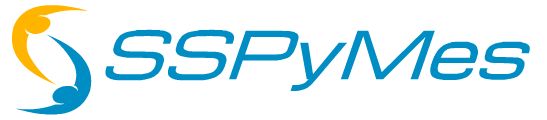
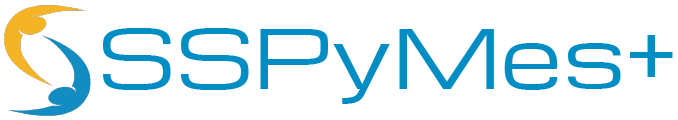
Update

Changed region(s): [[0.0, 0.025, 0.9945, 0.975]]

diff --git a/css/forgot.css b/css/forgot.css
@@ -50,14 +50,17 @@ body {
 }
 
 .row .form-group input {
-	display: block;
-	padding: 0.5em 0;
-	width: 100%;
-	margin-top: 1em;
-	margin-bottom: 0.5em;
-	background-color: white;
-	border: none;
-	border-radius: 5px;
+	font-size: 22px;
+    display: block;
+    width: 100%;
+    height: 100%;
+    padding: 5px 10px;
+    background: rgb(255, 255, 255);
+    background-image: none;
+    border: 1px solid #a0b3b0;
+    color: rgb(0, 0, 0);
+    border-radius: 0;
+    transition: border-color .25s ease, box-shadow .25s ease;
 }
 
 .row .form-group button {
@@ -74,7 +77,7 @@ body {
 .row .form-group input:focus, .row .form-group button:focus {
 	background-color: #fff;
 	border: none;
-	padding: 1em 0.5em; 
+	/* padding: 1em 0.5em;  */
 	animation: pulse 1s infinite ease;
 }
 
@@ -191,18 +194,18 @@ body {
 
 @media screen and (min-width: 1366px) {
 	.row .form-group {
-		margin-left: 400px;
+		margin-left: 415px;
 	}
 }
 
 @media screen and (min-width: 1920px) {
 	.row {
-	  width: 35%; 
+	  width: 25%; 
 	} 
 
 	.row .form-group {
-		margin-left: 155px;
-		width: 17vw;
+		margin-left: 148px;
+		width: 12vw;
 	}
 
 }

diff --git a/index.html b/index.html
@@ -19,19 +19,19 @@
           </ul>
 
           <div class="logo">
-            <img src="img/SSPyMes1.png" alt="SSPyMes">
+            <img src="img/SSPyMes.png" alt="SSPyMes">
           </div>
           
           <div class="tab-content">
             
             <div id="login">   
-              <h1>¡Bienvenido a SSPyMes!</h1>
+              <h1>¡Bienvenido a SSPyMes+!</h1>
               
               <form id="form_login"> <!-- method="post"-->
 
                 <div class="field-wrap">
                   <label id="t_correo">
-                    Correo Electrónico<span class="req">*</span>
+                    Usuario<span class="req">*</span>
                   </label>
                   <input type="email" id="i_correo" required autocomplete="off"/>
                 </div>

diff --git a/fotgot.html b/fotgot.html
@@ -12,7 +12,7 @@
     <body>
         <div class="row">
             <div class="logo">
-                <img src="img/SSPyMes1.png" alt="SSPyMes">
+                <img src="img/SSPyMes.png" alt="SSPyMes">
             </div>
             <h1>¿Olvidaste la contraseña?</h1>
             <h6 class="information-text">Ingresa el correo registrado para restablecer la contraseña.</h6>
